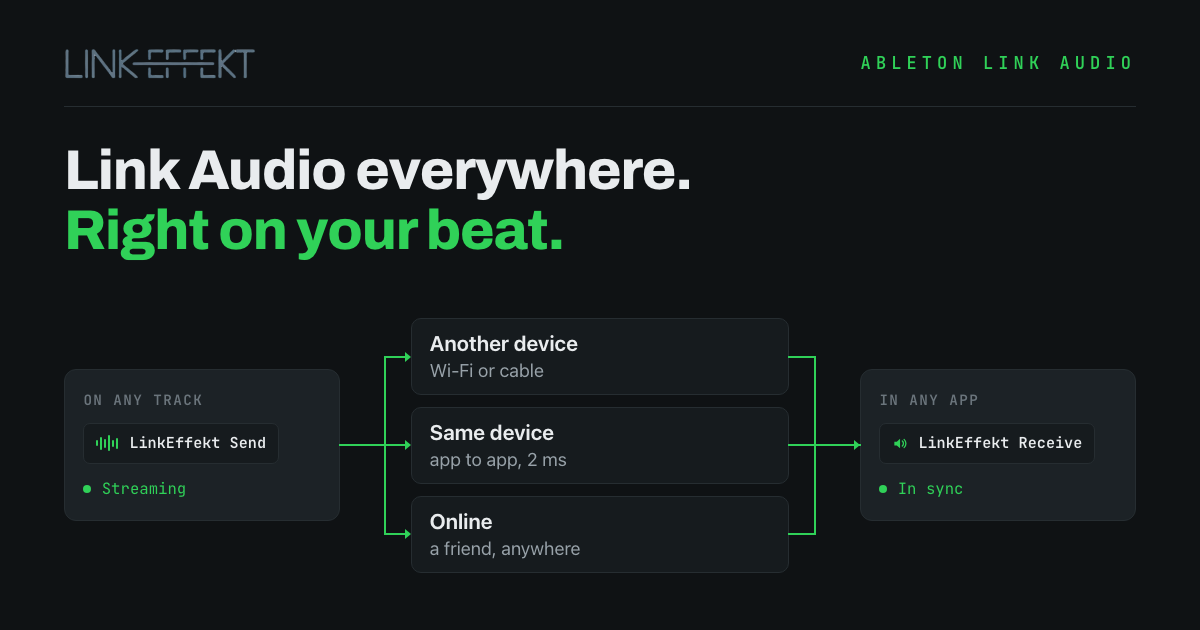
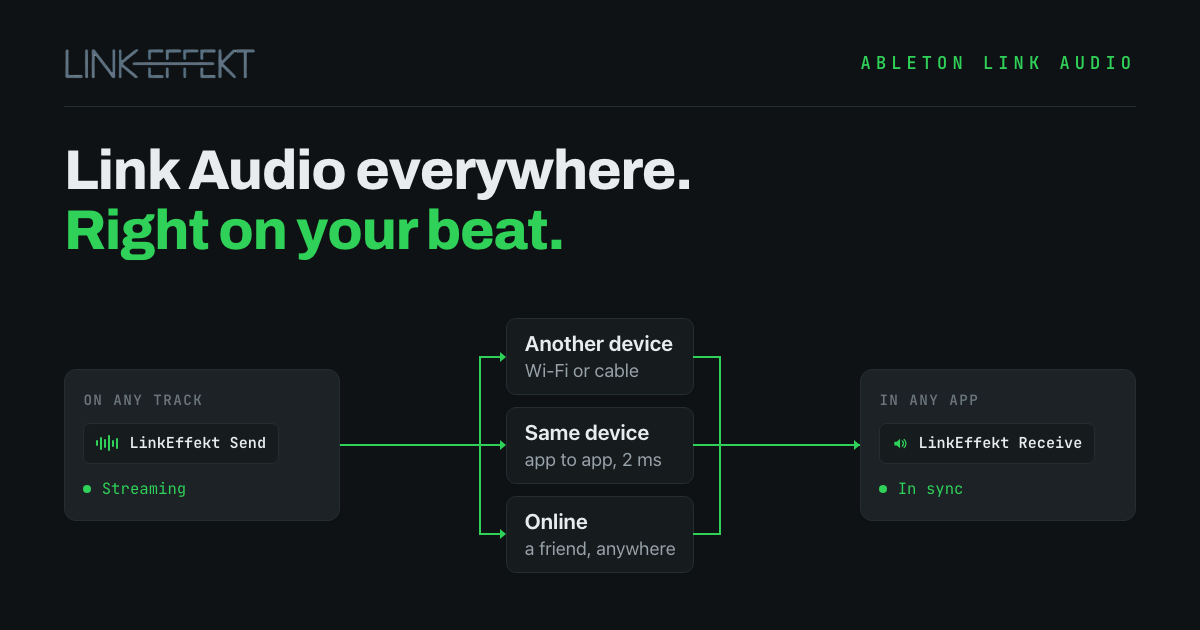
Grafik im Quick start: Wege-Kaesten so breit wie ihr Text, die Leitungen nehmen den Raum; Vorschaubild neu gerendert

diff --git a/style.css b/style.css
@@ -637,23 +637,17 @@ html[data-theme="light"] .theme-toggle .ico-moon { display: block; }
   --gap: 1.9rem;    /* column gap: the line out of a card */
   --arm: 1.2rem;    /* from a trunk to its route card */
   --rgap: .5rem;    /* between route cards */
-  /* the side columns take the width their text needs (never a fixed width:
-     fonts differ between browsers), the ways in the middle get the rest */
-  display: grid; grid-template-columns: auto minmax(0, 1fr) auto;
-  align-items: center; column-gap: var(--gap); margin: 0 0 1.6rem;
+  /* Send and Receive take the width their text needs (never a fixed width:
+     fonts differ between browsers), the ways are as wide as their own text and
+     sit in the middle; the wires between them take up whatever space is left */
+  display: grid; grid-template-columns: auto minmax(var(--gap), 1fr) max-content minmax(var(--gap), 1fr) auto;
+  align-items: center; margin: 0 0 1.6rem;
 }
+.fan-wire { height: 2px; background: var(--ok); }
 .fan-node {
   position: relative; min-width: 12rem;   /* both ends equally wide */
   background: var(--panel-2); border: 1px solid var(--line); border-radius: 12px;
   padding: .75rem .8rem .8rem;
-}
-.fan-src::after {                       /* Send to the left trunk */
-  content: ""; position: absolute; top: 50%; left: 100%;
-  width: calc(var(--gap) + 1px); height: 2px; background: var(--ok); transform: translateY(-1px);
-}
-.fan-dst::before {                      /* right trunk to the Receive */
-  content: ""; position: absolute; top: 50%; right: 100%;
-  width: calc(var(--gap) + 1px); height: 2px; background: var(--ok); transform: translateY(-1px);
 }
 .fan-tip {
   position: absolute; top: 50%; left: -7px; transform: translateY(-50%);
@@ -713,10 +707,11 @@ html[data-theme="light"] .theme-toggle .ico-moon { display: block; }
 /* phones and narrow tablets: one column, Send above the ways, Receive below */
 @media (max-width: 820px) {
   .fan { grid-template-columns: 1fr; row-gap: var(--gap); }
-  .fan-route .ln, .fan-route .fan-tip { display: none; }
+  .fan-wire, .fan-route .ln, .fan-route .fan-tip { display: none; }
   .fan-routes { margin: 0; }
-  .fan-src::after { top: 100%; left: 50%; width: 2px; height: calc(var(--gap) + 1px); transform: translateX(-1px); }
-  .fan-dst::before { top: auto; bottom: 100%; right: auto; left: 50%; width: 2px; height: calc(var(--gap) + 1px); transform: translateX(-1px); }
+  .fan-src::after, .fan-dst::before { content: ""; position: absolute; left: 50%; width: 2px; height: calc(var(--gap) + 1px); background: var(--ok); transform: translateX(-1px); }
+  .fan-src::after { top: 100%; }
+  .fan-dst::before { bottom: 100%; }
   .fan-dst > .fan-tip { top: -7px; left: 50%; transform: translateX(-50%); border: 5px solid transparent; border-top: 6px solid var(--ok); border-bottom-width: 0; }
   .fan-route { align-items: center; text-align: center; }
   .prose .fan .fan-live { margin-top: .2rem; }

diff --git a/manual.html b/manual.html
@@ -106,11 +106,13 @@
         <div class="fan-plug"><span class="fan-wave" aria-hidden="true"><i></i><i></i><i></i><i></i><i></i><i></i></span><span>LinkEffekt Send</span></div>
         <p class="fan-status"><span class="dot ok"></span>Streaming</p>
       </div>
+      <div class="fan-wire" aria-hidden="true"></div>
       <div class="fan-routes">
           <div class="fan-route"><i class="ln lb"></i><i class="ln lt"></i><i class="ln rb"></i><i class="ln rt"></i><i class="fan-tip"></i><span class="fan-title">Another device</span><span class="fan-sub">Wi-Fi or cable</span></div>
           <div class="fan-route"><i class="ln lb"></i><i class="ln lt"></i><i class="ln rb"></i><i class="ln rt"></i><i class="fan-tip"></i><span class="fan-title">Same device</span><span class="fan-sub">app to app, 2 ms</span></div>
           <div class="fan-route"><i class="ln lb"></i><i class="ln lt"></i><i class="ln rb"></i><i class="ln rt"></i><i class="fan-tip"></i><span class="fan-title">Online</span><span class="fan-sub">a friend, anywhere</span></div>
       </div>
+      <div class="fan-wire" aria-hidden="true"></div>
       <div class="fan-node fan-dst">
         <i class="fan-tip"></i>
         <p class="fan-kicker">In any app</p>
